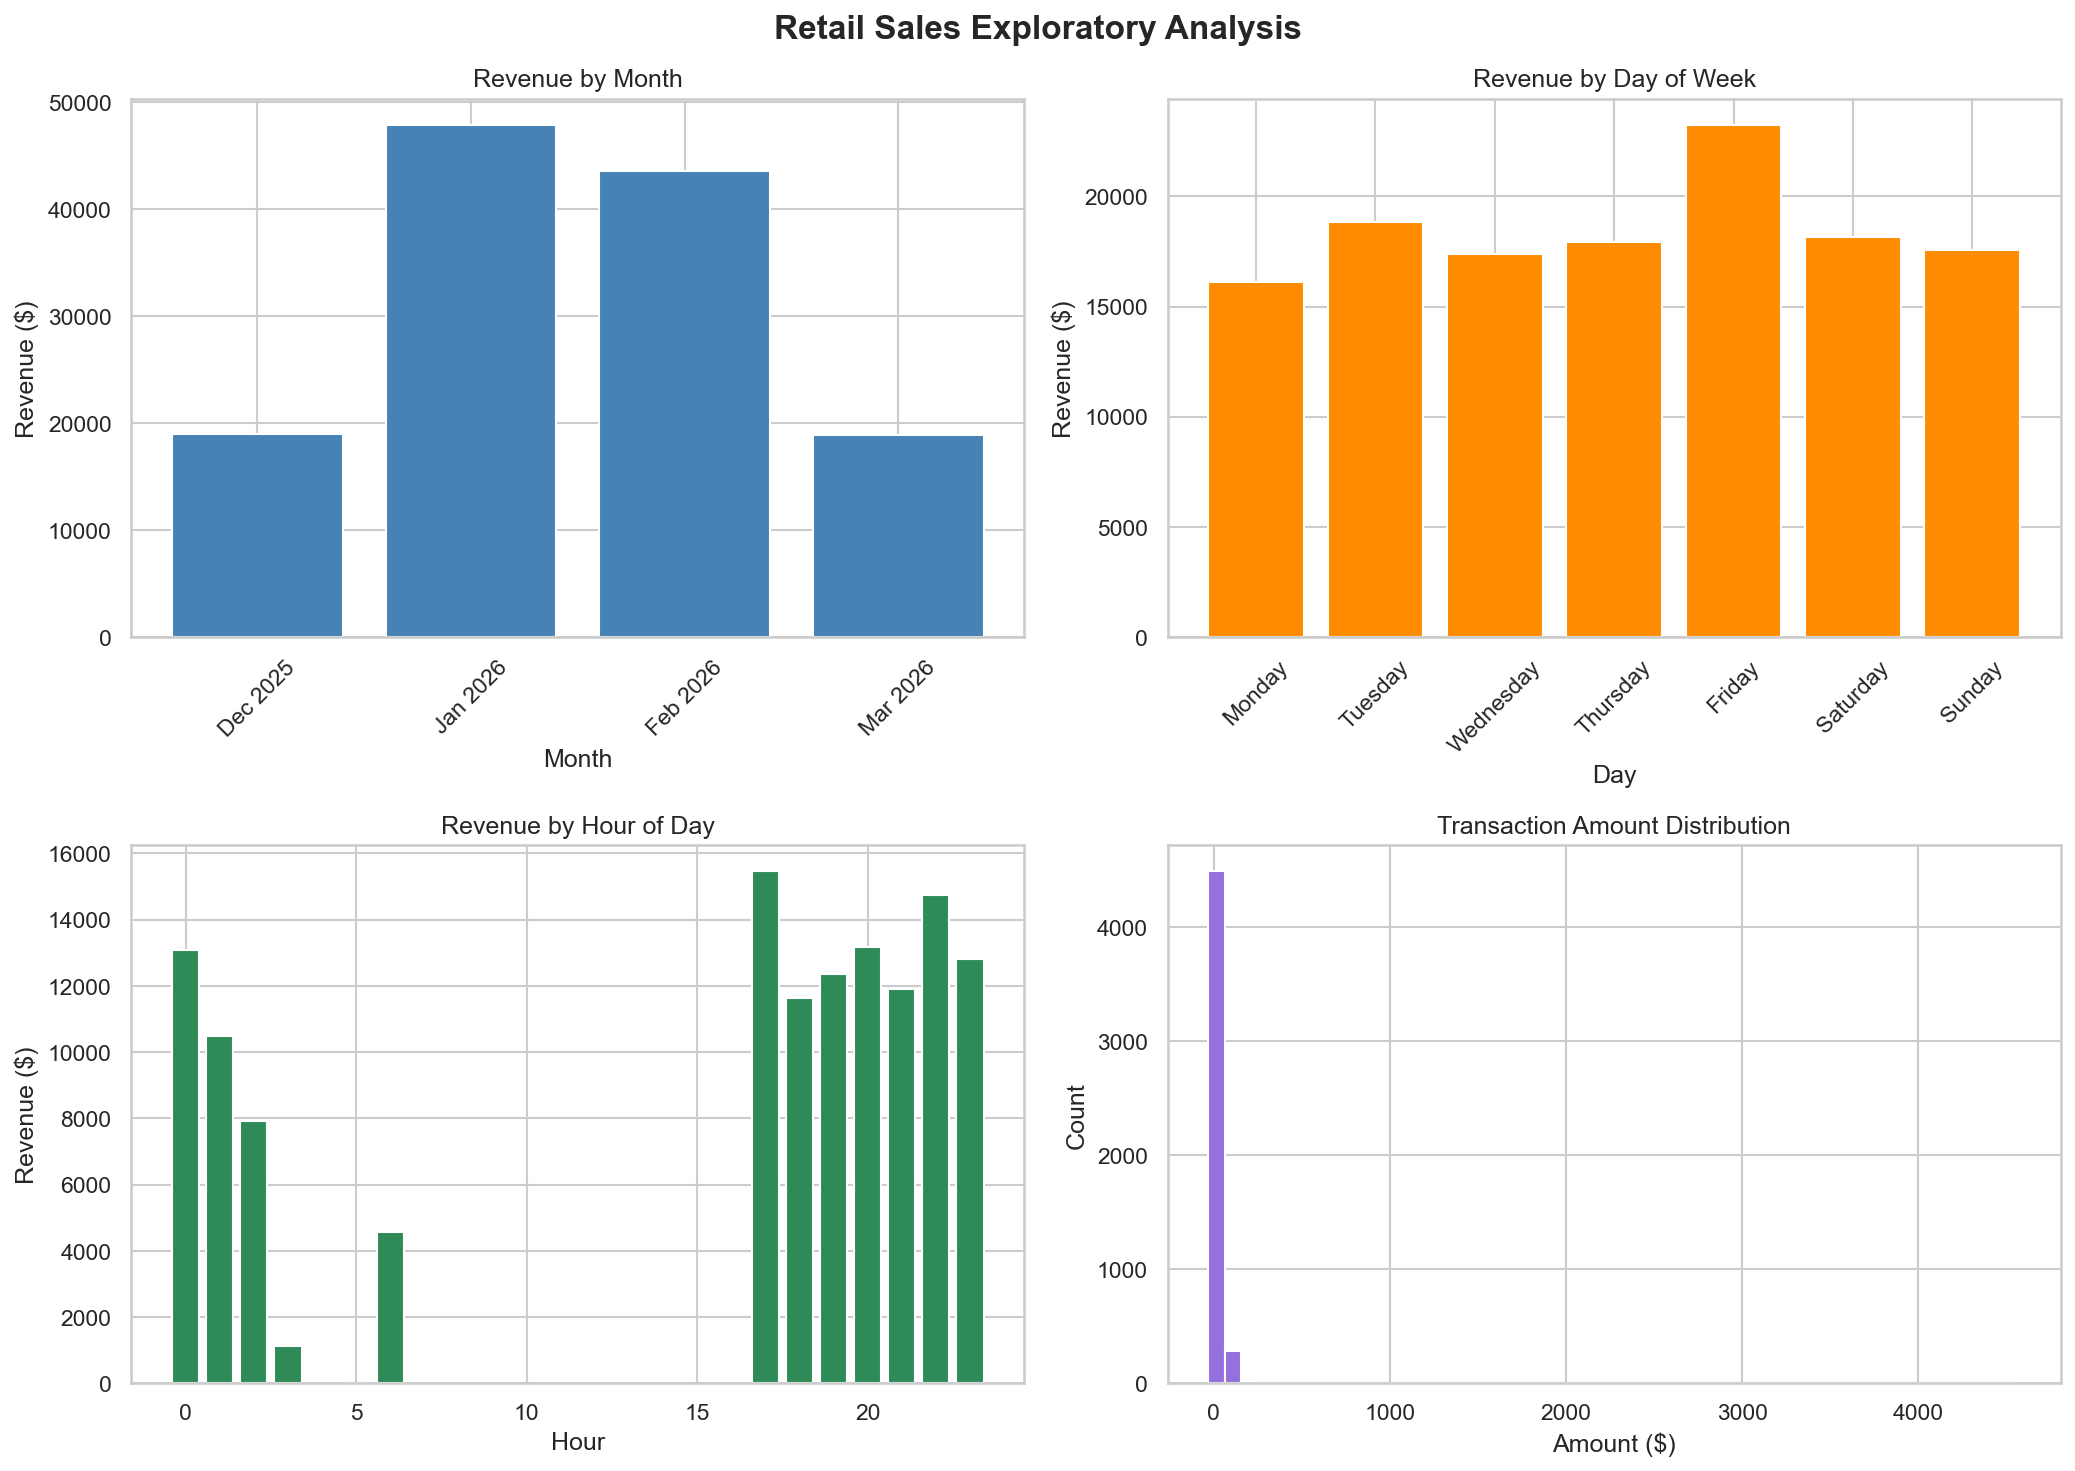
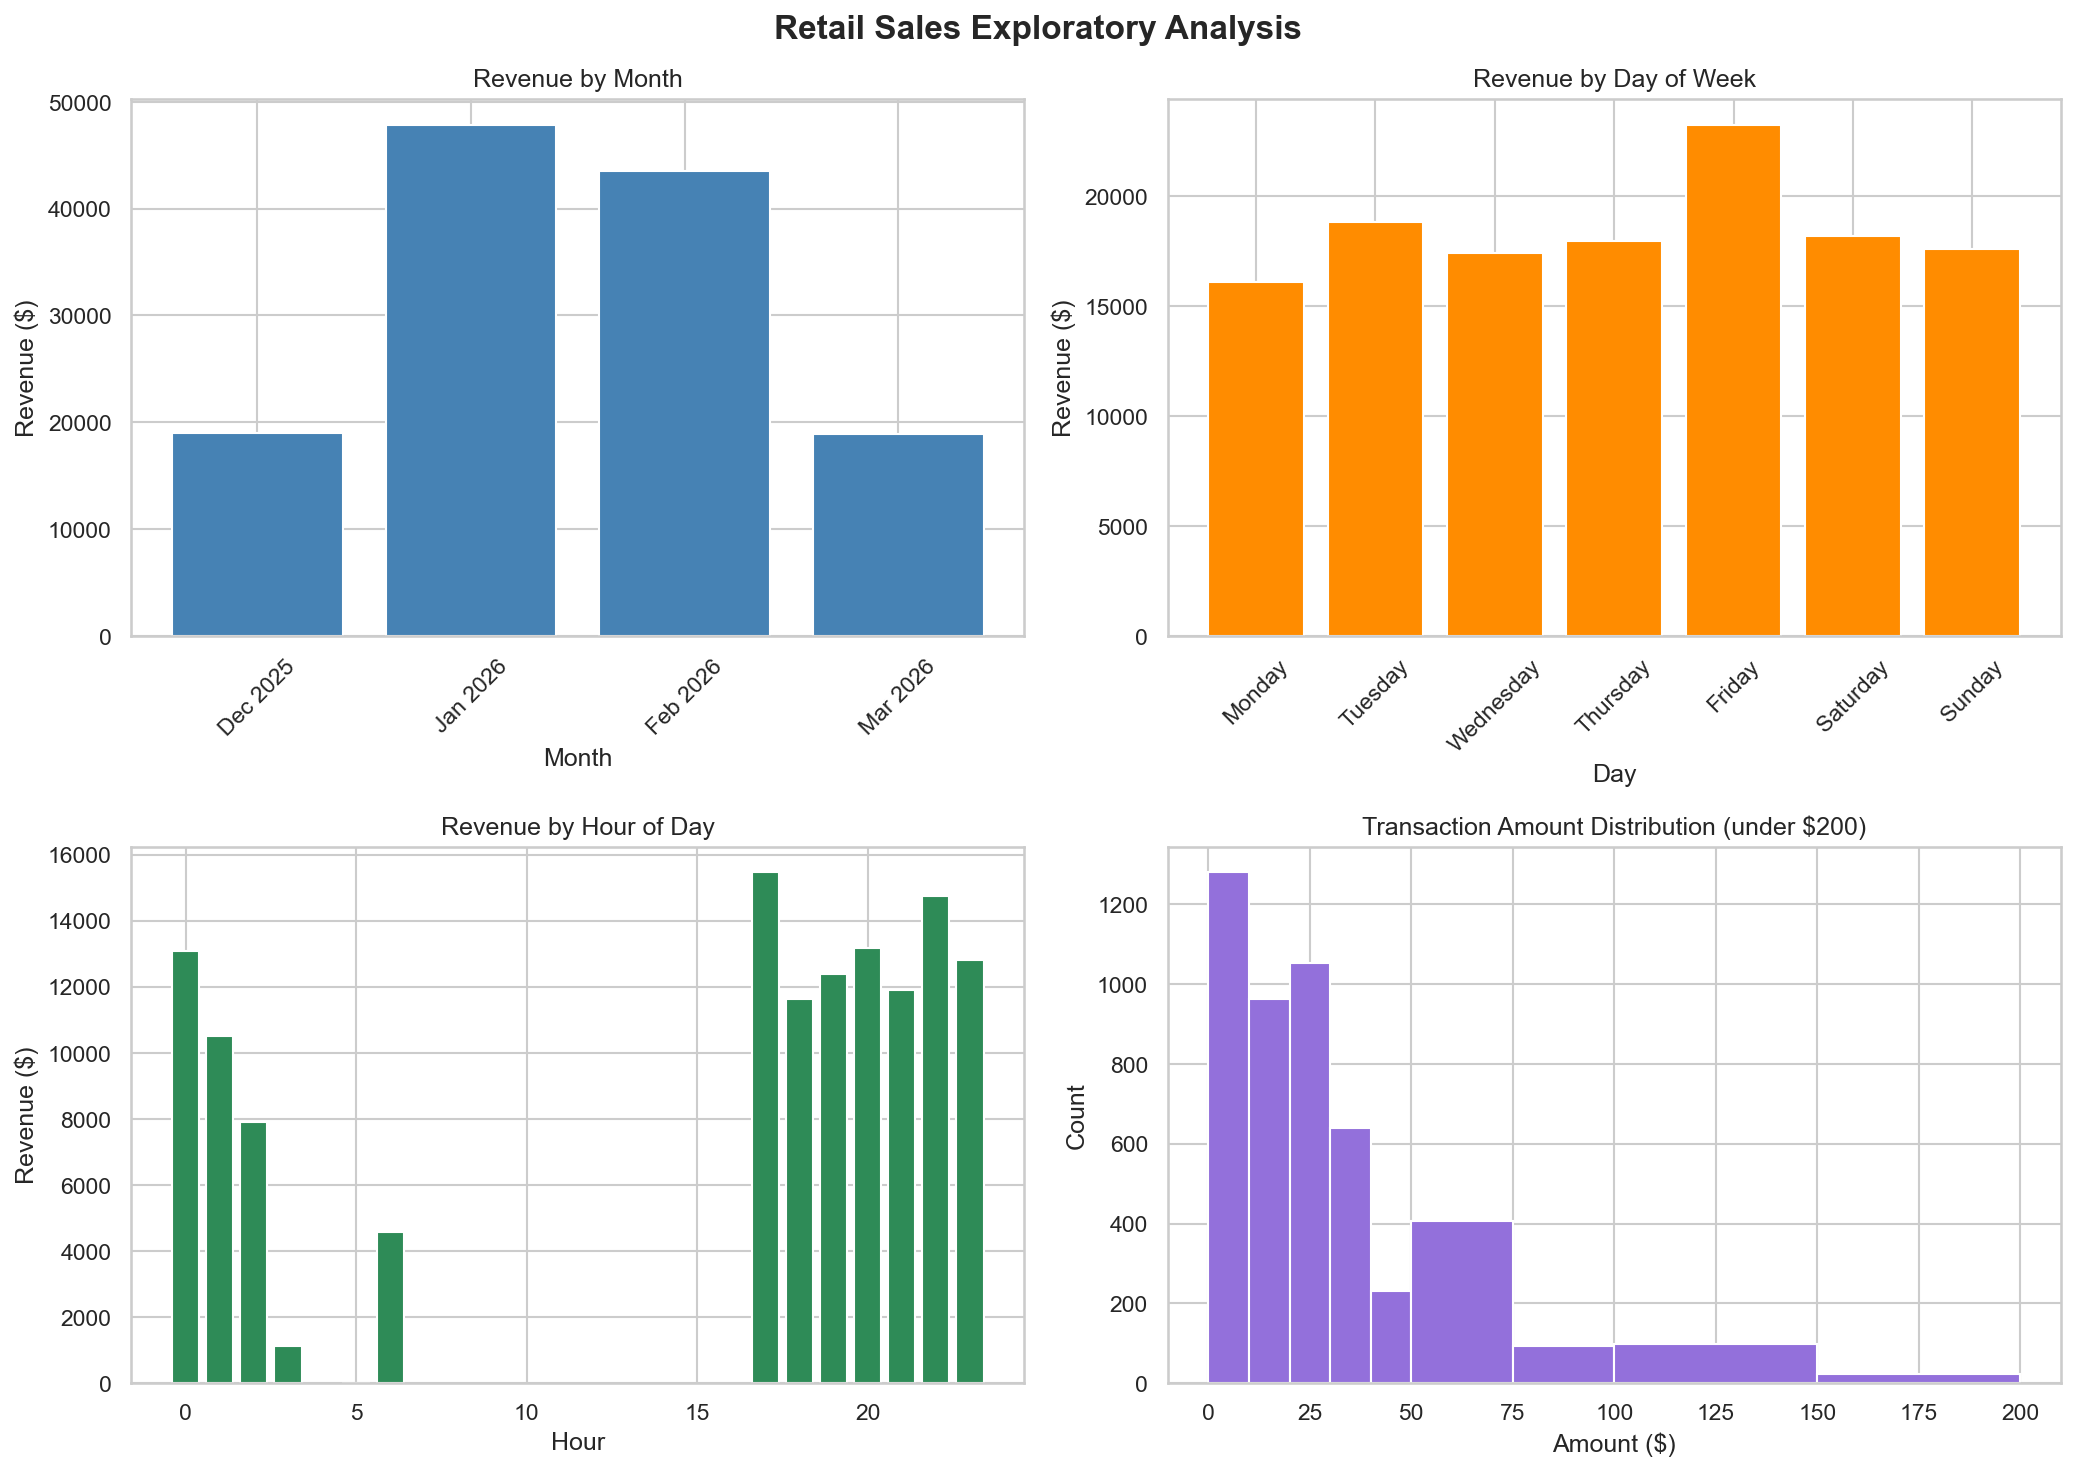
Fix: filter transaction distribution chart to under $200 for better readability

diff --git a/notebooks/02_exploratory_analysis.py b/notebooks/02_exploratory_analysis.py
@@ -64,9 +64,11 @@ axes[1,0].set_title('Revenue by Hour of Day')
 axes[1,0].set_xlabel('Hour')
 axes[1,0].set_ylabel('Revenue ($)')
 
-# Plot 4 - Transaction amount distribution
-axes[1,1].hist(df['Total Transaction Amount'], bins=50, color='mediumpurple', edgecolor='white')
-axes[1,1].set_title('Transaction Amount Distribution')
+# Plot 4 - Transaction amount distribution (under $200, excludes outliers)
+df_filtered = df[df['Total Transaction Amount'] <= 200]
+axes[1,1].hist(df_filtered['Total Transaction Amount'], bins=[0,10,20,30,40,50,75,100,150,200], 
+               color='mediumpurple', edgecolor='white')
+axes[1,1].set_title('Transaction Amount Distribution (under $200)')
 axes[1,1].set_xlabel('Amount ($)')
 axes[1,1].set_ylabel('Count')
 
